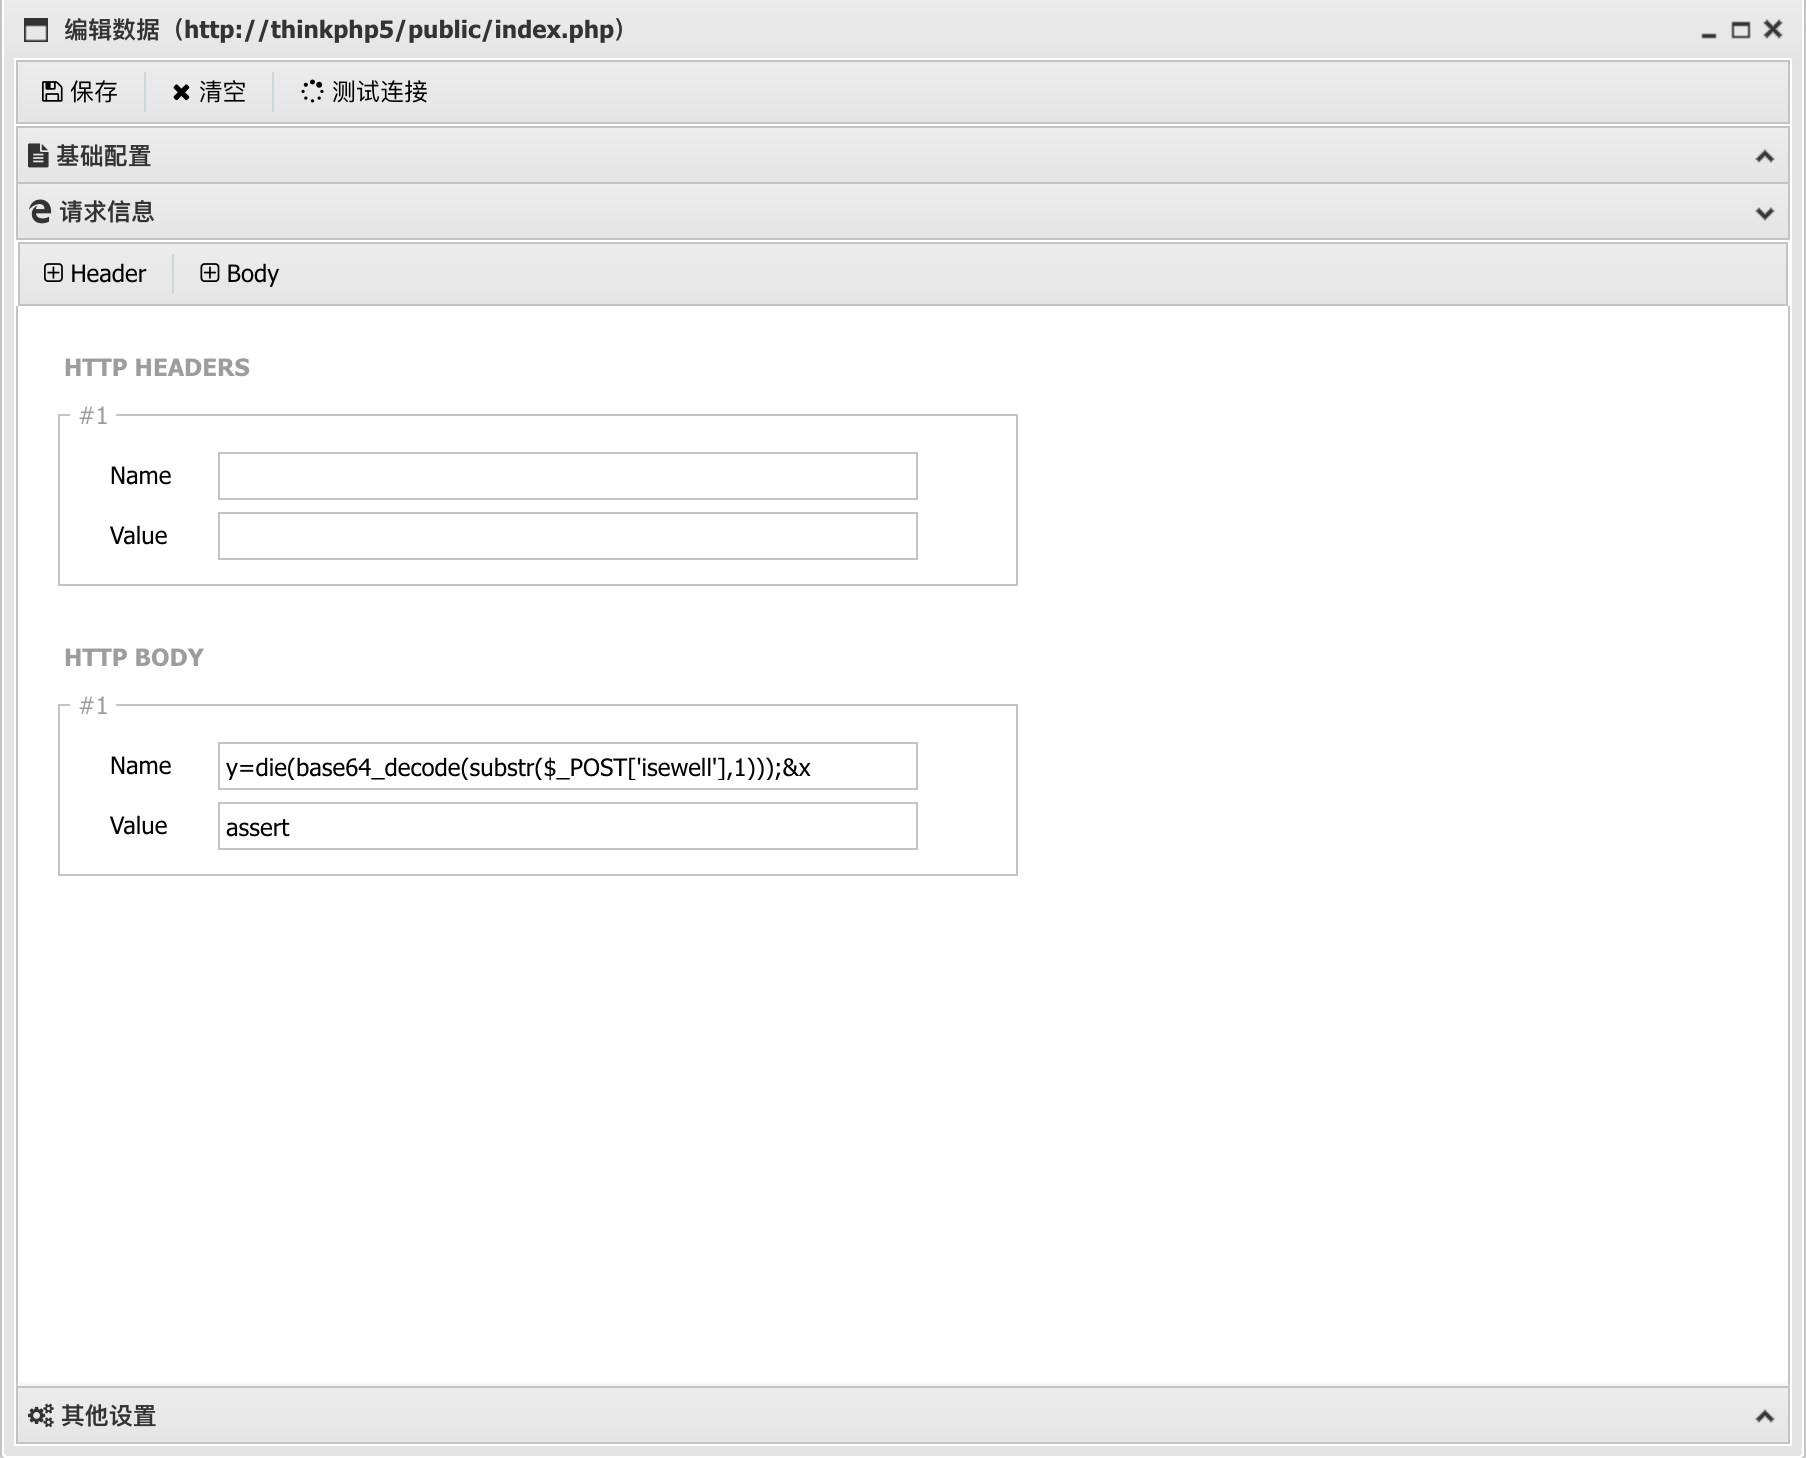
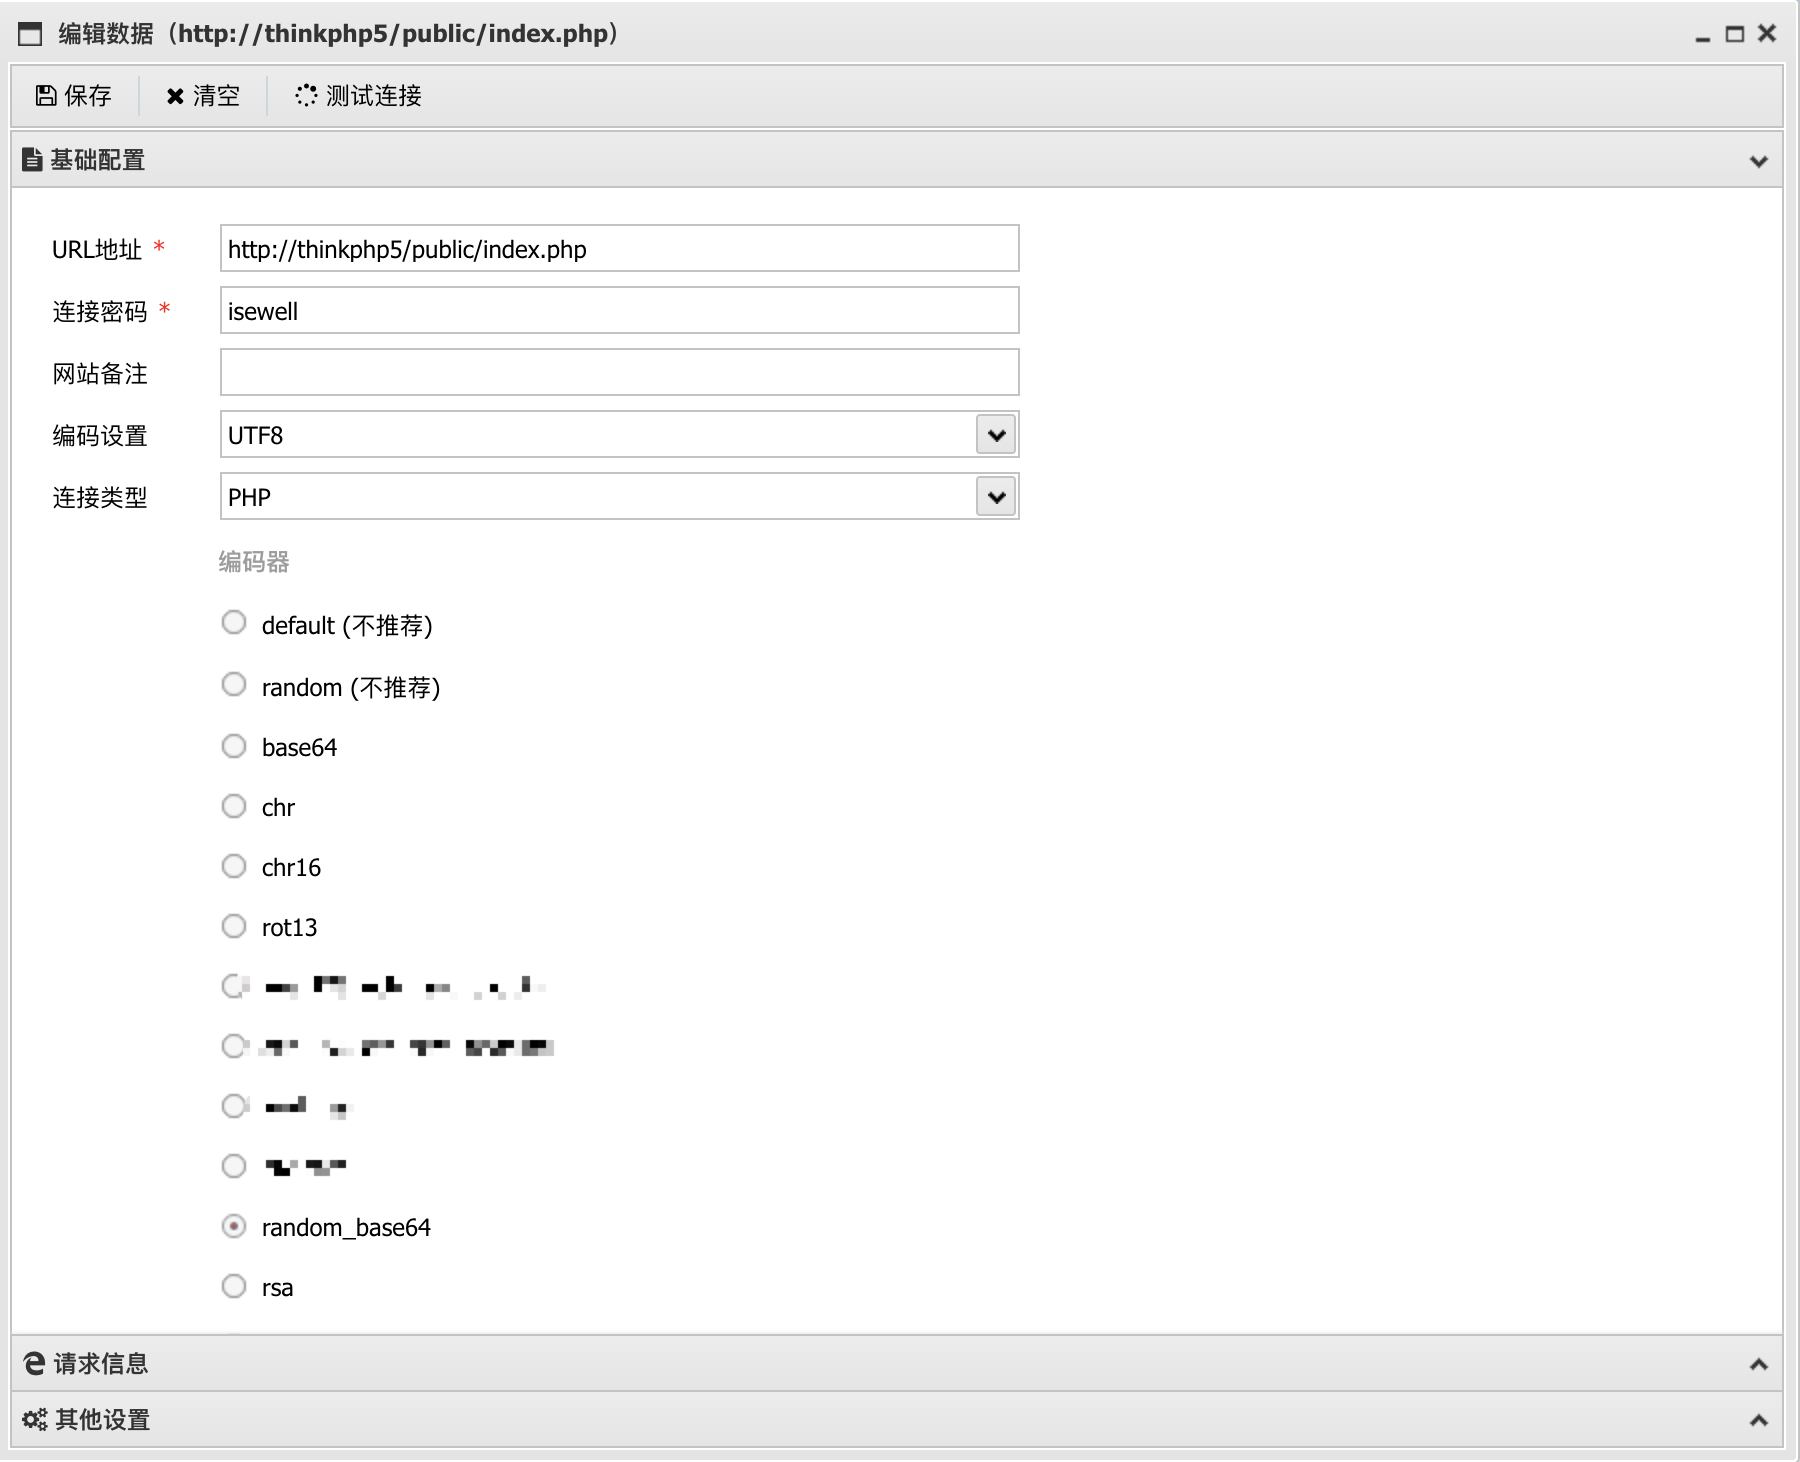
[fix] PHP RCE+antSword实现无文件Webshell

diff --git a/_posts/2019-07-23-PHP RCE+antSword实现无文件Webshell.md b/_posts/2019-07-23-PHP RCE+antSword实现无文件Webshell.md
@@ -23,16 +23,22 @@ keywords: ""
 
 这里仍拿ThinkPHP来演示：在index.php文件后加上如下代码。
 
+NOTE that PHP>7.1 assert被定义为一种语言构造器，而不是一个函数，所以像eval一样不支持可变函数（如果一个变量名后有圆括号，PHP 将寻找与变量的值同名的函数，并且尝试执行它），即以下代码调用不可用。
+
 ![PHPWebshell1](/assets/images/2019-07-23/PHPWebshell1.png)
 
-利用antSword的编解码功能“加密”传输流量，这里使用随机截取一位base64编码器。
+实现：
 
 ![PHPWebshell2](/assets/images/2019-07-23/PHPWebshell2.png)
 
-![PHPWebshell3](/assets/images/2019-07-23/PHPWebshell3.png)
+再利用antSword的编解码功能“加密”传输流量，这里使用随机截取一位base64编码器。
 
-完美实现Webshell功能，使用Wireshark抓取流量可以发现传输的关键数据被base64编码。
+![PHPWebshell3](/assets/images/2019-07-23/PHPWebshell3.png)
 
 ![PHPWebshell4](/assets/images/2019-07-23/PHPWebshell4.png)
 
-构造PHP RCE的方式灵活多样，可以肆意发挥。
+完美实现Webshell功能，使用Wireshark抓取流量可以发现传输的关键数据被base64编码。
+
+![PHPWebshell5](/assets/images/2019-07-23/PHPWebshell5.png)
+
+构造PHP RCE的方式灵活多样，可以肆意发挥，但前提需要建立在适用目标PHP version特性上。
